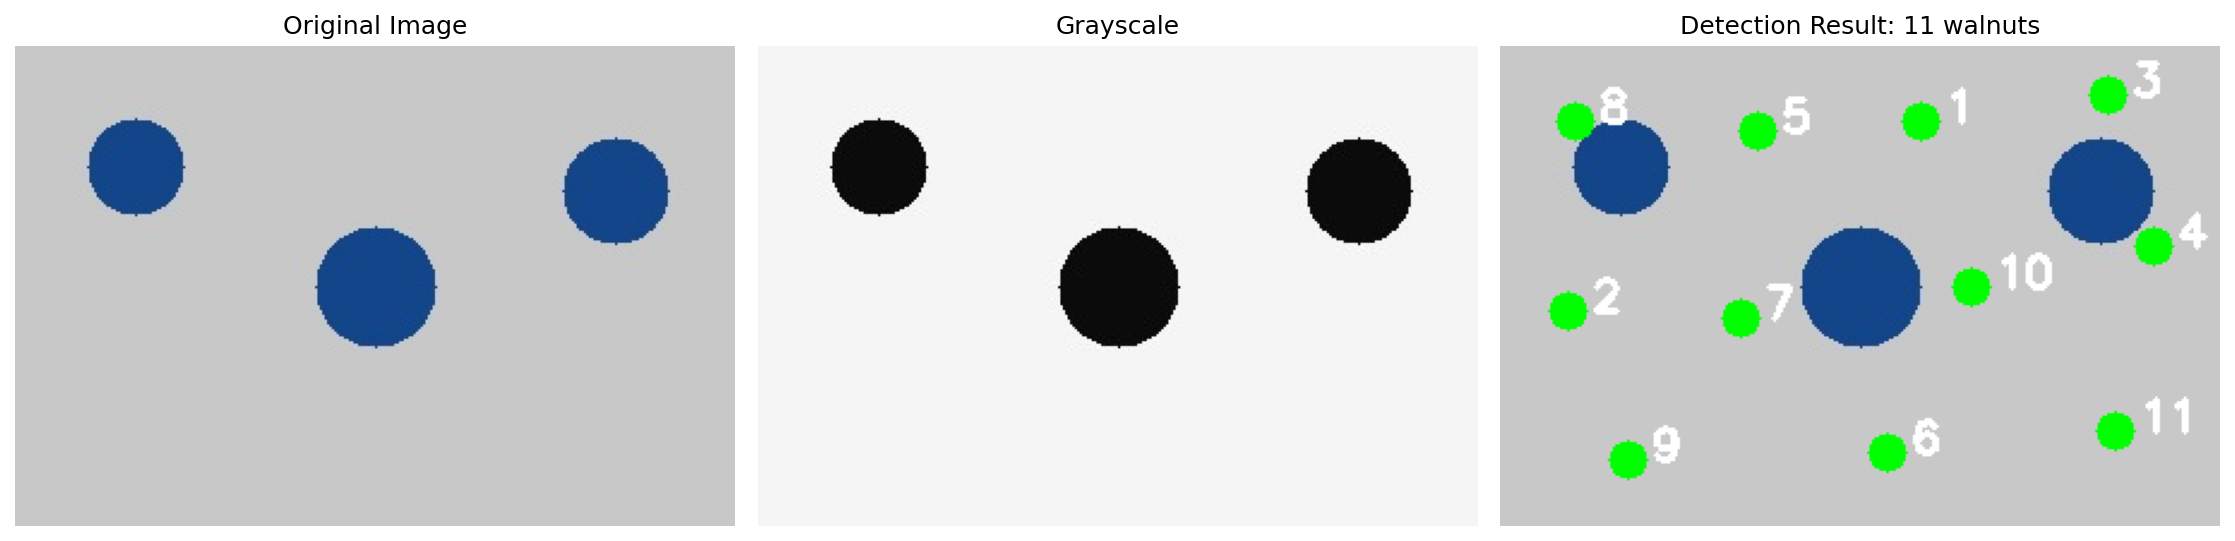
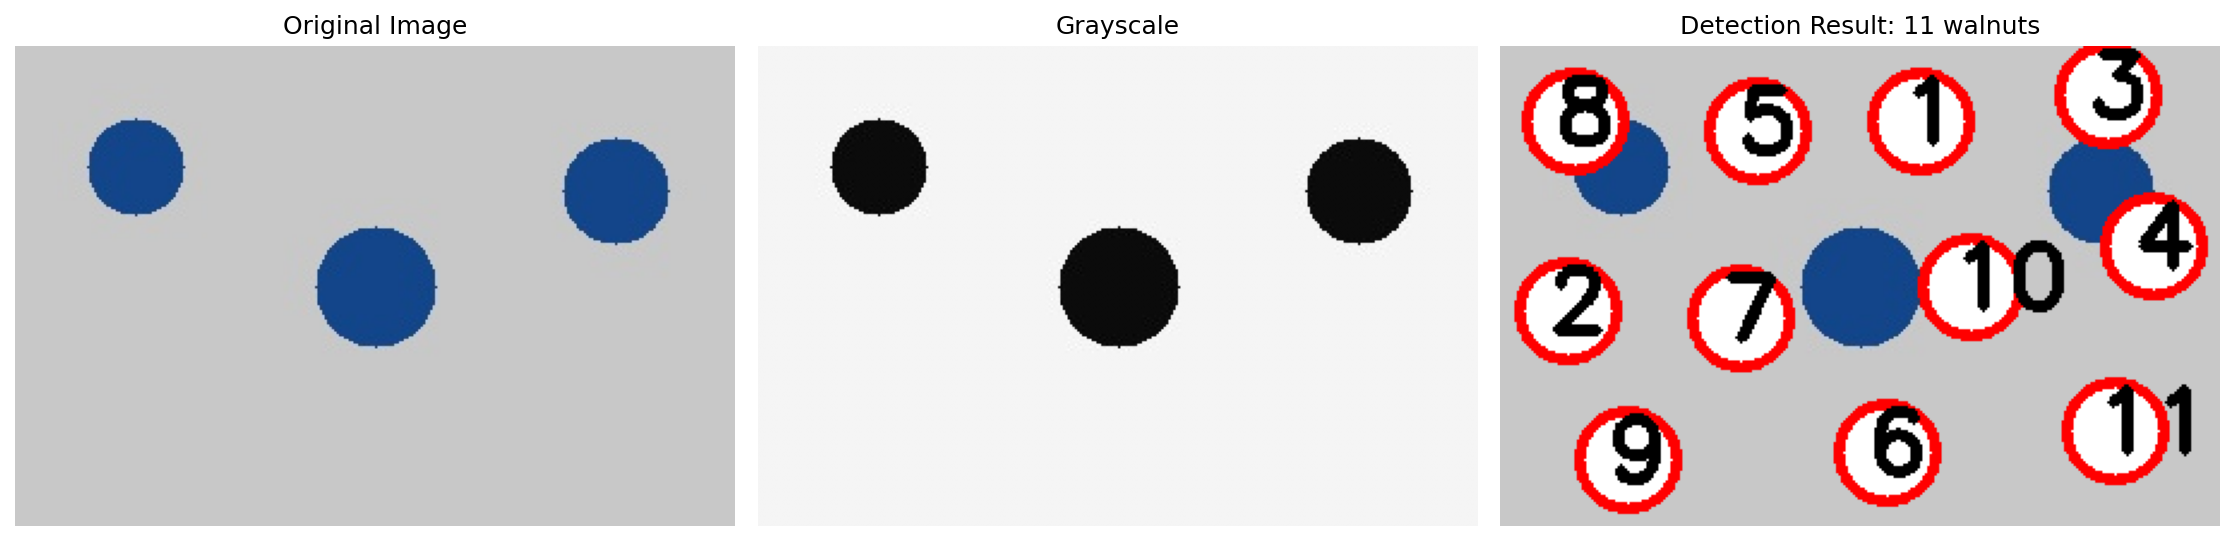
Add numeric labels to walnuts in comparison analysis
- Enhance visualization with red circle borders and white backgrounds
- Add clear black numeric labels (1-11) directly on each walnut
- Improve label positioning and font size for better readability
- Update comparison chart to display numbered walnuts prominently

🤖 Generated with [Claude Code](https://claude.ai/code)

diff --git a/walnut_detector.py b/walnut_detector.py
@@ -90,14 +90,16 @@ def walnut_detector():
             # 步骤4: 可视化结果
             print("🔍 步骤4: 生成可视化结果...")
             
-            # 创建标记图片
+            # 创建标记图片 - 在核桃身上直接添加数字标记
             marked_image = image.copy()
             for i, center in enumerate(cluster_centers):
-                # 在核桃中心画绿色圆点
-                cv2.circle(marked_image, (int(center[0]), int(center[1])), 8, (0, 255, 0), -1)
-                # 添加编号
-                cv2.putText(marked_image, str(i+1), (int(center[0])+10, int(center[1])), 
-                           cv2.FONT_HERSHEY_SIMPLEX, 0.6, (255, 255, 255), 2)
+                # 在核桃中心画红色圆圈背景（更醒目）
+                cv2.circle(marked_image, (int(center[0]), int(center[1])), 20, (0, 0, 255), 3)
+                # 在圆圈内填充白色背景
+                cv2.circle(marked_image, (int(center[0]), int(center[1])), 18, (255, 255, 255), -1)
+                # 添加黑色数字编号
+                cv2.putText(marked_image, str(i+1), (int(center[0])-8, int(center[1])+8), 
+                           cv2.FONT_HERSHEY_SIMPLEX, 1.2, (0, 0, 0), 3)
             
             # 保存结果图片
             cv2.imwrite('walnut_detection_result.jpg', marked_image)
@@ -125,7 +127,7 @@ def walnut_detector():
                 plt.title('Grayscale')
                 plt.axis('off')
                 
-                # 检测结果
+                # 检测结果 - 显示带有数字标记的图片
                 result_rgb = cv2.cvtColor(marked_image, cv2.COLOR_BGR2RGB)
                 plt.subplot(1, 3, 3)
                 plt.imshow(result_rgb)
